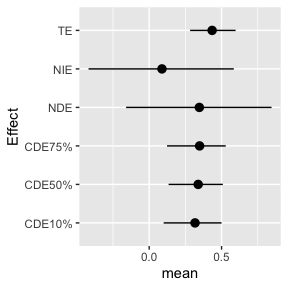
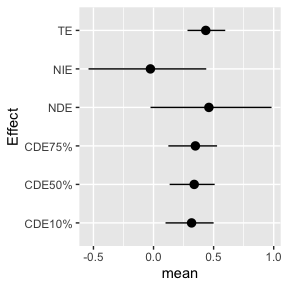
Deploying to gh-pages from @ zc2326/causalbkmr@eaff8c5043000f4481b8d0040f219d91425fe7d6 🚀

diff --git a/reference/YaYastar.SamplePred.html b/reference/YaYastar.SamplePred.html
@@ -1,5 +1,6 @@
 <!DOCTYPE html>
-<!-- Generated by pkgdown: do not edit by hand --><html lang="en"><head><meta http-equiv="Content-Type" content="text/html; charset=UTF-8"><meta charset="utf-8"><meta http-equiv="X-UA-Compatible" content="IE=edge"><meta name="viewport" content="width=device-width, initial-scale=1.0"><title>Estimate TE for BKMR — YaYastar.SamplePred • causalbkmr</title><!-- jquery --><script src="https://cdnjs.cloudflare.com/ajax/libs/jquery/3.4.1/jquery.min.js" integrity="sha256-CSXorXvZcTkaix6Yvo6HppcZGetbYMGWSFlBw8HfCJo=" crossorigin="anonymous"></script><!-- Bootstrap --><link href="https://cdnjs.cloudflare.com/ajax/libs/bootswatch/3.4.0/cosmo/bootstrap.min.css" rel="stylesheet" crossorigin="anonymous"><script src="https://cdnjs.cloudflare.com/ajax/libs/twitter-bootstrap/3.4.1/js/bootstrap.min.js" integrity="sha256-nuL8/2cJ5NDSSwnKD8VqreErSWHtnEP9E7AySL+1ev4=" crossorigin="anonymous"></script><!-- bootstrap-toc --><link rel="stylesheet" href="../bootstrap-toc.css"><script src="../bootstrap-toc.js"></script><!-- Font Awesome icons --><link rel="stylesheet" href="https://cdnjs.cloudflare.com/ajax/libs/font-awesome/5.12.1/css/all.min.css" integrity="sha256-mmgLkCYLUQbXn0B1SRqzHar6dCnv9oZFPEC1g1cwlkk=" crossorigin="anonymous"><link rel="stylesheet" href="https://cdnjs.cloudflare.com/ajax/libs/font-awesome/5.12.1/css/v4-shims.min.css" integrity="sha256-wZjR52fzng1pJHwx4aV2AO3yyTOXrcDW7jBpJtTwVxw=" crossorigin="anonymous"><!-- clipboard.js --><script src="https://cdnjs.cloudflare.com/ajax/libs/clipboard.js/2.0.6/clipboard.min.js" integrity="sha256-inc5kl9MA1hkeYUt+EC3BhlIgyp/2jDIyBLS6k3UxPI=" crossorigin="anonymous"></script><!-- headroom.js --><script src="https://cdnjs.cloudflare.com/ajax/libs/headroom/0.11.0/headroom.min.js" integrity="sha256-AsUX4SJE1+yuDu5+mAVzJbuYNPHj/WroHuZ8Ir/CkE0=" crossorigin="anonymous"></script><script src="https://cdnjs.cloudflare.com/ajax/libs/headroom/0.11.0/jQuery.headroom.min.js" integrity="sha256-ZX/yNShbjqsohH1k95liqY9Gd8uOiE1S4vZc+9KQ1K4=" crossorigin="anonymous"></script><!-- pkgdown --><link href="../pkgdown.css" rel="stylesheet"><script src="../pkgdown.js"></script><meta property="og:title" content="Estimate TE for BKMR — YaYastar.SamplePred"><meta property="og:description" content="Get Ya and Yastar used in effects caculation"><!-- mathjax --><script src="https://cdnjs.cloudflare.com/ajax/libs/mathjax/2.7.5/MathJax.js" integrity="sha256-nvJJv9wWKEm88qvoQl9ekL2J+k/RWIsaSScxxlsrv8k=" crossorigin="anonymous"></script><script src="https://cdnjs.cloudflare.com/ajax/libs/mathjax/2.7.5/config/TeX-AMS-MML_HTMLorMML.js" integrity="sha256-84DKXVJXs0/F8OTMzX4UR909+jtl4G7SPypPavF+GfA=" crossorigin="anonymous"></script><!--[if lt IE 9]>
+<!-- Generated by pkgdown: do not edit by hand --><html lang="en"><head><meta http-equiv="Content-Type" content="text/html; charset=UTF-8"><meta charset="utf-8"><meta http-equiv="X-UA-Compatible" content="IE=edge"><meta name="viewport" content="width=device-width, initial-scale=1.0"><title>Estimate TE for BKMR-CMA-MI — YaYastar.SamplePred • causalbkmr</title><!-- jquery --><script src="https://cdnjs.cloudflare.com/ajax/libs/jquery/3.4.1/jquery.min.js" integrity="sha256-CSXorXvZcTkaix6Yvo6HppcZGetbYMGWSFlBw8HfCJo=" crossorigin="anonymous"></script><!-- Bootstrap --><link href="https://cdnjs.cloudflare.com/ajax/libs/bootswatch/3.4.0/cosmo/bootstrap.min.css" rel="stylesheet" crossorigin="anonymous"><script src="https://cdnjs.cloudflare.com/ajax/libs/twitter-bootstrap/3.4.1/js/bootstrap.min.js" integrity="sha256-nuL8/2cJ5NDSSwnKD8VqreErSWHtnEP9E7AySL+1ev4=" crossorigin="anonymous"></script><!-- bootstrap-toc --><link rel="stylesheet" href="../bootstrap-toc.css"><script src="../bootstrap-toc.js"></script><!-- Font Awesome icons --><link rel="stylesheet" href="https://cdnjs.cloudflare.com/ajax/libs/font-awesome/5.12.1/css/all.min.css" integrity="sha256-mmgLkCYLUQbXn0B1SRqzHar6dCnv9oZFPEC1g1cwlkk=" crossorigin="anonymous"><link rel="stylesheet" href="https://cdnjs.cloudflare.com/ajax/libs/font-awesome/5.12.1/css/v4-shims.min.css" integrity="sha256-wZjR52fzng1pJHwx4aV2AO3yyTOXrcDW7jBpJtTwVxw=" crossorigin="anonymous"><!-- clipboard.js --><script src="https://cdnjs.cloudflare.com/ajax/libs/clipboard.js/2.0.6/clipboard.min.js" integrity="sha256-inc5kl9MA1hkeYUt+EC3BhlIgyp/2jDIyBLS6k3UxPI=" crossorigin="anonymous"></script><!-- headroom.js --><script src="https://cdnjs.cloudflare.com/ajax/libs/headroom/0.11.0/headroom.min.js" integrity="sha256-AsUX4SJE1+yuDu5+mAVzJbuYNPHj/WroHuZ8Ir/CkE0=" crossorigin="anonymous"></script><script src="https://cdnjs.cloudflare.com/ajax/libs/headroom/0.11.0/jQuery.headroom.min.js" integrity="sha256-ZX/yNShbjqsohH1k95liqY9Gd8uOiE1S4vZc+9KQ1K4=" crossorigin="anonymous"></script><!-- pkgdown --><link href="../pkgdown.css" rel="stylesheet"><script src="../pkgdown.js"></script><meta property="og:title" content="Estimate TE for BKMR-CMA-MI — YaYastar.SamplePred"><meta property="og:description" content="Get Ya and Yastar used in effects caculation
+Get Ya and Yastar used in effects caculation"><!-- mathjax --><script src="https://cdnjs.cloudflare.com/ajax/libs/mathjax/2.7.5/MathJax.js" integrity="sha256-nvJJv9wWKEm88qvoQl9ekL2J+k/RWIsaSScxxlsrv8k=" crossorigin="anonymous"></script><script src="https://cdnjs.cloudflare.com/ajax/libs/mathjax/2.7.5/config/TeX-AMS-MML_HTMLorMML.js" integrity="sha256-84DKXVJXs0/F8OTMzX4UR909+jtl4G7SPypPavF+GfA=" crossorigin="anonymous"></script><!--[if lt IE 9]>
 <script src="https://oss.maxcdn.com/html5shiv/3.7.3/html5shiv.min.js"></script>
 <script src="https://oss.maxcdn.com/respond/1.4.2/respond.min.js"></script>
 <![endif]--></head><body data-spy="scroll" data-target="#toc">
@@ -97,17 +98,20 @@
       </header><div class="row">
   <div class="col-md-9 contents">
     <div class="page-header">
-    <h1>Estimate TE for BKMR</h1>
-    <small class="dont-index">Source: <a href="https://github.com/zc2326/causalbkmr/blob/HEAD/R/TE.bkmr.R" class="external-link"><code>R/TE.bkmr.R</code></a></small>
+    <h1>Estimate TE for BKMR-CMA-MI</h1>
+    <small class="dont-index">Source: <a href="https://github.com/zc2326/causalbkmr/blob/HEAD/R/TE.bkmr.MI.R" class="external-link"><code>R/TE.bkmr.MI.R</code></a>, <a href="https://github.com/zc2326/causalbkmr/blob/HEAD/R/TE.bkmr.R" class="external-link"><code>R/TE.bkmr.R</code></a></small>
     <div class="hidden name"><code>YaYastar.SamplePred.Rd</code></div>
     </div>
 
     <div class="ref-description">
     <p>Get Ya and Yastar used in effects caculation</p>
+<p>Get Ya and Yastar used in effects caculation</p>
     </div>
 
     <div id="ref-usage">
-    <div class="sourceCode"><pre class="sourceCode r"><code><span><span class="fu">YaYastar.SamplePred</span><span class="op">(</span><span class="va">a</span>, <span class="va">astar</span>, <span class="va">e.y</span>, <span class="va">fit.y.TE</span>, <span class="va">X.predict.Y</span>, <span class="va">sel</span>, <span class="va">seed</span><span class="op">)</span></span></code></pre></div>
+    <div class="sourceCode"><pre class="sourceCode r"><code><span><span class="fu">YaYastar.SamplePred</span><span class="op">(</span><span class="va">a</span>, <span class="va">astar</span>, <span class="va">e.y</span>, <span class="va">fit.y.TE</span>, <span class="va">X.predict.Y</span>, <span class="va">sel</span>, <span class="va">seed</span><span class="op">)</span></span>
+<span></span>
+<span><span class="fu">YaYastar.SamplePred</span><span class="op">(</span><span class="va">a</span>, <span class="va">astar</span>, <span class="va">e.y</span>, <span class="va">fit.y.TE</span>, <span class="va">X.predict.Y</span>, <span class="va">sel</span>, <span class="va">seed</span><span class="op">)</span></span></code></pre></div>
     </div>
 
     <div id="arguments">
@@ -139,10 +143,17 @@
 <dt>seed</dt>
 <dd><p>the random seed to use to evaluate the code</p></dd>
 
+
+<dt>BKMRfits.y.TE</dt>
+<dd><p>A list of BKMR models for total effect model fit regressing outcome on exposures, effect modifiers and confounders on outcome, using multiple imputed data.</p></dd>
+
 </dl></div>
     <div id="value">
     <h2>Value</h2>
     
+
+<p>A list containing the sample prediction for Ya and Yastar</p>
+
 
 <p>A list containing the sample prediction for Ya and Yastar</p>
     </div>
@@ -150,11 +161,56 @@
     <h2>Details</h2>
     <p>For guided examples, go to
 https://zc2326.github.io/causalbkmr/articles/BKMRCMA_QuickStart.html</p>
+<p>For guided examples, go to
+https://zc2326.github.io/causalbkmr/articles/BKMRCMA_QuickStart.html</p>
     </div>
 
     <div id="ref-examples">
     <h2>Examples</h2>
     <div class="sourceCode"><pre class="sourceCode r"><code><span class="r-in"><span><span class="kw">if</span> <span class="op">(</span><span class="cn">FALSE</span><span class="op">)</span> <span class="op">{</span></span></span>
+<span class="r-in"><span><span class="kw"><a href="https://rdrr.io/r/base/library.html" class="external-link">library</a></span><span class="op">(</span><span class="va"><a href="https://github.com/zc2326/causalbkmr" class="external-link">causalbkmr</a></span><span class="op">)</span></span></span>
+<span class="r-in"><span><span class="va">dat</span> <span class="op">&lt;-</span>  <span class="fu"><a href="cma_sampledata.html">cma_sampledata</a></span><span class="op">(</span>N<span class="op">=</span><span class="fl">300</span>, L<span class="op">=</span><span class="fl">3</span>, P<span class="op">=</span><span class="fl">3</span>, scenario<span class="op">=</span><span class="fl">1</span>, seed<span class="op">=</span><span class="fl">7</span><span class="op">)</span></span></span>
+<span class="r-in"><span></span></span>
+<span class="r-in"><span><span class="va">A</span> <span class="op">&lt;-</span> <span class="fu"><a href="https://rdrr.io/r/base/cbind.html" class="external-link">cbind</a></span><span class="op">(</span><span class="va">dat</span><span class="op">$</span><span class="va">z1</span>, <span class="va">dat</span><span class="op">$</span><span class="va">z2</span>, <span class="va">dat</span><span class="op">$</span><span class="va">z3</span><span class="op">)</span></span></span>
+<span class="r-in"><span><span class="va">X</span> <span class="op">&lt;-</span> <span class="fu"><a href="https://rdrr.io/r/base/cbind.html" class="external-link">cbind</a></span><span class="op">(</span><span class="va">dat</span><span class="op">$</span><span class="va">x3</span><span class="op">)</span></span></span>
+<span class="r-in"><span><span class="va">y</span>  <span class="op">&lt;-</span> <span class="va">dat</span><span class="op">$</span><span class="va">y</span></span></span>
+<span class="r-in"><span><span class="va">m</span>  <span class="op">&lt;-</span> <span class="va">dat</span><span class="op">$</span><span class="va">M</span></span></span>
+<span class="r-in"><span></span></span>
+<span class="r-in"><span><span class="va">E.M</span> <span class="op">&lt;-</span> <span class="cn">NULL</span></span></span>
+<span class="r-in"><span><span class="va">E.Y</span> <span class="op">&lt;-</span> <span class="va">dat</span><span class="op">$</span><span class="va">x2</span></span></span>
+<span class="r-in"><span></span></span>
+<span class="r-in"><span><span class="va">Z.M</span> <span class="op">&lt;-</span> <span class="fu"><a href="https://rdrr.io/r/base/cbind.html" class="external-link">cbind</a></span><span class="op">(</span><span class="va">A</span>,<span class="va">E.M</span><span class="op">)</span></span></span>
+<span class="r-in"><span><span class="va">Z.Y</span> <span class="op">&lt;-</span> <span class="fu"><a href="https://rdrr.io/r/base/cbind.html" class="external-link">cbind</a></span><span class="op">(</span><span class="va">A</span>, <span class="va">E.Y</span><span class="op">)</span></span></span>
+<span class="r-in"><span><span class="va">Zm.Y</span> <span class="op">&lt;-</span> <span class="fu"><a href="https://rdrr.io/r/base/cbind.html" class="external-link">cbind</a></span><span class="op">(</span><span class="va">Z.Y</span>, <span class="va">m</span><span class="op">)</span></span></span>
+<span class="r-in"><span></span></span>
+<span class="r-in"><span><span class="fu"><a href="https://rdrr.io/r/base/Random.html" class="external-link">set.seed</a></span><span class="op">(</span><span class="fl">1</span><span class="op">)</span></span></span>
+<span class="r-in"><span><span class="va">fit.y</span> <span class="op">&lt;-</span> <span class="fu">kmbayes</span><span class="op">(</span>y<span class="op">=</span><span class="va">y</span>, Z<span class="op">=</span><span class="va">Zm.Y</span>, X<span class="op">=</span><span class="va">X</span>, iter<span class="op">=</span><span class="fl">5000</span>, verbose<span class="op">=</span><span class="cn">TRUE</span>, varsel<span class="op">=</span><span class="cn">FALSE</span><span class="op">)</span></span></span>
+<span class="r-in"><span><span class="co">#save(fit.y,file="bkmr_y.RData")</span></span></span>
+<span class="r-in"><span></span></span>
+<span class="r-in"><span><span class="fu"><a href="https://rdrr.io/r/base/Random.html" class="external-link">set.seed</a></span><span class="op">(</span><span class="fl">2</span><span class="op">)</span></span></span>
+<span class="r-in"><span><span class="va">fit.y.TE</span> <span class="op">&lt;-</span> <span class="fu">kmbayes</span><span class="op">(</span>y<span class="op">=</span><span class="va">y</span>, Z<span class="op">=</span><span class="va">Z.Y</span>, X<span class="op">=</span><span class="va">X</span>, iter<span class="op">=</span><span class="fl">5000</span>, verbose<span class="op">=</span><span class="cn">TRUE</span>, varsel<span class="op">=</span><span class="cn">FALSE</span><span class="op">)</span></span></span>
+<span class="r-in"><span><span class="co">#save(fit.y.TE,file="bkmr_y_TE.RData")</span></span></span>
+<span class="r-in"><span></span></span>
+<span class="r-in"><span><span class="fu"><a href="https://rdrr.io/r/base/Random.html" class="external-link">set.seed</a></span><span class="op">(</span><span class="fl">3</span><span class="op">)</span></span></span>
+<span class="r-in"><span><span class="va">fit.m</span> <span class="op">&lt;-</span> <span class="fu">kmbayes</span><span class="op">(</span>y<span class="op">=</span><span class="va">m</span>, Z<span class="op">=</span><span class="va">Z.M</span>, X<span class="op">=</span><span class="va">X</span>, iter<span class="op">=</span><span class="fl">5000</span>, verbose<span class="op">=</span><span class="cn">TRUE</span>, varsel<span class="op">=</span><span class="cn">FALSE</span><span class="op">)</span></span></span>
+<span class="r-in"><span><span class="co">#save(fit.m,file="bkmr_m.RData")</span></span></span>
+<span class="r-in"><span></span></span>
+<span class="r-in"><span><span class="va">X.predict</span> <span class="op">&lt;-</span> <span class="fu"><a href="https://rdrr.io/r/base/matrix.html" class="external-link">matrix</a></span><span class="op">(</span><span class="fu"><a href="https://rdrr.io/r/base/colSums.html" class="external-link">colMeans</a></span><span class="op">(</span><span class="va">X</span><span class="op">)</span>,nrow<span class="op">=</span><span class="fl">1</span><span class="op">)</span></span></span>
+<span class="r-in"><span><span class="va">astar</span> <span class="op">&lt;-</span> <span class="fu"><a href="https://rdrr.io/r/base/c.html" class="external-link">c</a></span><span class="op">(</span><span class="fu"><a href="https://rdrr.io/r/base/apply.html" class="external-link">apply</a></span><span class="op">(</span><span class="va">A</span>, <span class="fl">2</span>, <span class="va">quantile</span>, probs<span class="op">=</span><span class="fl">0.25</span><span class="op">)</span><span class="op">)</span></span></span>
+<span class="r-in"><span><span class="va">a</span> <span class="op">&lt;-</span> <span class="fu"><a href="https://rdrr.io/r/base/c.html" class="external-link">c</a></span><span class="op">(</span><span class="fu"><a href="https://rdrr.io/r/base/apply.html" class="external-link">apply</a></span><span class="op">(</span><span class="va">A</span>, <span class="fl">2</span>, <span class="va">quantile</span>, probs<span class="op">=</span><span class="fl">0.75</span><span class="op">)</span><span class="op">)</span></span></span>
+<span class="r-in"><span></span></span>
+<span class="r-in"><span><span class="va">e.y10</span> <span class="op">=</span> <span class="fu"><a href="https://rdrr.io/r/stats/quantile.html" class="external-link">quantile</a></span><span class="op">(</span><span class="va">E.Y</span>, probs<span class="op">=</span><span class="fl">0.1</span><span class="op">)</span></span></span>
+<span class="r-in"><span><span class="va">e.y90</span> <span class="op">=</span> <span class="fu"><a href="https://rdrr.io/r/stats/quantile.html" class="external-link">quantile</a></span><span class="op">(</span><span class="va">E.Y</span>, probs<span class="op">=</span><span class="fl">0.9</span><span class="op">)</span></span></span>
+<span class="r-in"><span></span></span>
+<span class="r-in"><span><span class="va">sel</span><span class="op">&lt;-</span><span class="fu"><a href="https://rdrr.io/r/base/seq.html" class="external-link">seq</a></span><span class="op">(</span><span class="fl">2500</span>,<span class="fl">5000</span>,by<span class="op">=</span><span class="fl">5</span><span class="op">)</span></span></span>
+<span class="r-in"><span></span></span>
+<span class="r-in"><span><span class="va">TE.ey10</span> <span class="op">&lt;-</span> <span class="fu"><a href="TE.bkmr.html">TE.bkmr</a></span><span class="op">(</span>a<span class="op">=</span><span class="va">a</span>, astar<span class="op">=</span><span class="va">astar</span>, e.y <span class="op">=</span> <span class="va">e.y10</span>, fit.y.TE<span class="op">=</span><span class="va">fit.y.TE</span>, X.predict<span class="op">=</span><span class="va">X.predict</span>, alpha<span class="op">=</span><span class="fl">0.05</span>, sel<span class="op">=</span><span class="va">sel</span>, seed<span class="op">=</span><span class="fl">122</span><span class="op">)</span></span></span>
+<span class="r-in"><span><span class="va">TE.ey90</span> <span class="op">&lt;-</span> <span class="fu"><a href="TE.bkmr.html">TE.bkmr</a></span><span class="op">(</span>a<span class="op">=</span><span class="va">a</span>, astar<span class="op">=</span><span class="va">astar</span>, e.y <span class="op">=</span> <span class="va">e.y90</span>, fit.y.TE<span class="op">=</span><span class="va">fit.y.TE</span>, X.predict<span class="op">=</span><span class="va">X.predict</span>, alpha<span class="op">=</span><span class="fl">0.05</span>, sel<span class="op">=</span><span class="va">sel</span>, seed<span class="op">=</span><span class="fl">122</span><span class="op">)</span></span></span>
+<span class="r-in"><span><span class="va">TE.ey10</span><span class="op">$</span><span class="va">est</span></span></span>
+<span class="r-in"><span><span class="va">TE.ey90</span><span class="op">$</span><span class="va">est</span></span></span>
+<span class="r-in"><span><span class="op">}</span></span></span>
+<span class="r-in"><span></span></span>
+<span class="r-in"><span><span class="kw">if</span> <span class="op">(</span><span class="cn">FALSE</span><span class="op">)</span> <span class="op">{</span></span></span>
 <span class="r-in"><span><span class="kw"><a href="https://rdrr.io/r/base/library.html" class="external-link">library</a></span><span class="op">(</span><span class="va"><a href="https://github.com/zc2326/causalbkmr" class="external-link">causalbkmr</a></span><span class="op">)</span></span></span>
 <span class="r-in"><span><span class="va">dat</span> <span class="op">&lt;-</span>  <span class="fu"><a href="cma_sampledata.html">cma_sampledata</a></span><span class="op">(</span>N<span class="op">=</span><span class="fl">300</span>, L<span class="op">=</span><span class="fl">3</span>, P<span class="op">=</span><span class="fl">3</span>, scenario<span class="op">=</span><span class="fl">1</span>, seed<span class="op">=</span><span class="fl">7</span><span class="op">)</span></span></span>
 <span class="r-in"><span></span></span>

diff --git a/reference/OverallRiskSummaries.MI.html b/reference/OverallRiskSummaries.MI.html
@@ -167,23 +167,23 @@
 <span class="r-in"><span></span></span>
 <span class="r-in"><span><span class="va">overallrisks.MI</span> <span class="op">&lt;-</span> <span class="fu">OverallRiskSummaries.MI</span><span class="op">(</span>BKMRfits <span class="op">=</span> <span class="va">BKMRfits10</span>, qs <span class="op">=</span> <span class="fu"><a href="https://rdrr.io/r/base/seq.html" class="external-link">seq</a></span><span class="op">(</span><span class="fl">0.1</span>, <span class="fl">0.9</span>, by <span class="op">=</span> <span class="fl">0.05</span><span class="op">)</span>,  q.fixed <span class="op">=</span> <span class="fl">0.5</span>, sel <span class="op">=</span> <span class="va">sel.MI</span>, method <span class="op">=</span> <span class="st">"approx"</span><span class="op">)</span></span></span>
 <span class="r-out co"><span class="r-pr">#&gt;</span> [1] "approx method"</span>
-<span class="r-out co"><span class="r-pr">#&gt;</span> [1] "1 out of 17 complete:  0.05 min run time"</span>
-<span class="r-out co"><span class="r-pr">#&gt;</span> [1] "2 out of 17 complete:  0.06 min run time"</span>
-<span class="r-out co"><span class="r-pr">#&gt;</span> [1] "3 out of 17 complete:  0.06 min run time"</span>
-<span class="r-out co"><span class="r-pr">#&gt;</span> [1] "4 out of 17 complete:  0.07 min run time"</span>
-<span class="r-out co"><span class="r-pr">#&gt;</span> [1] "5 out of 17 complete:  0.07 min run time"</span>
-<span class="r-out co"><span class="r-pr">#&gt;</span> [1] "6 out of 17 complete:  0.08 min run time"</span>
-<span class="r-out co"><span class="r-pr">#&gt;</span> [1] "7 out of 17 complete:  0.08 min run time"</span>
-<span class="r-out co"><span class="r-pr">#&gt;</span> [1] "8 out of 17 complete:  0.09 min run time"</span>
-<span class="r-out co"><span class="r-pr">#&gt;</span> [1] "9 out of 17 complete:  0.09 min run time"</span>
-<span class="r-out co"><span class="r-pr">#&gt;</span> [1] "10 out of 17 complete:  0.09 min run time"</span>
-<span class="r-out co"><span class="r-pr">#&gt;</span> [1] "11 out of 17 complete:  0.1 min run time"</span>
-<span class="r-out co"><span class="r-pr">#&gt;</span> [1] "12 out of 17 complete:  0.1 min run time"</span>
-<span class="r-out co"><span class="r-pr">#&gt;</span> [1] "13 out of 17 complete:  0.11 min run time"</span>
-<span class="r-out co"><span class="r-pr">#&gt;</span> [1] "14 out of 17 complete:  0.11 min run time"</span>
-<span class="r-out co"><span class="r-pr">#&gt;</span> [1] "15 out of 17 complete:  0.11 min run time"</span>
-<span class="r-out co"><span class="r-pr">#&gt;</span> [1] "16 out of 17 complete:  0.12 min run time"</span>
-<span class="r-out co"><span class="r-pr">#&gt;</span> [1] "17 out of 17 complete:  0.12 min run time"</span>
+<span class="r-out co"><span class="r-pr">#&gt;</span> [1] "1 out of 17 complete:  0.04 min run time"</span>
+<span class="r-out co"><span class="r-pr">#&gt;</span> [1] "2 out of 17 complete:  0.04 min run time"</span>
+<span class="r-out co"><span class="r-pr">#&gt;</span> [1] "3 out of 17 complete:  0.05 min run time"</span>
+<span class="r-out co"><span class="r-pr">#&gt;</span> [1] "4 out of 17 complete:  0.05 min run time"</span>
+<span class="r-out co"><span class="r-pr">#&gt;</span> [1] "5 out of 17 complete:  0.06 min run time"</span>
+<span class="r-out co"><span class="r-pr">#&gt;</span> [1] "6 out of 17 complete:  0.06 min run time"</span>
+<span class="r-out co"><span class="r-pr">#&gt;</span> [1] "7 out of 17 complete:  0.06 min run time"</span>
+<span class="r-out co"><span class="r-pr">#&gt;</span> [1] "8 out of 17 complete:  0.07 min run time"</span>
+<span class="r-out co"><span class="r-pr">#&gt;</span> [1] "9 out of 17 complete:  0.07 min run time"</span>
+<span class="r-out co"><span class="r-pr">#&gt;</span> [1] "10 out of 17 complete:  0.07 min run time"</span>
+<span class="r-out co"><span class="r-pr">#&gt;</span> [1] "11 out of 17 complete:  0.08 min run time"</span>
+<span class="r-out co"><span class="r-pr">#&gt;</span> [1] "12 out of 17 complete:  0.08 min run time"</span>
+<span class="r-out co"><span class="r-pr">#&gt;</span> [1] "13 out of 17 complete:  0.08 min run time"</span>
+<span class="r-out co"><span class="r-pr">#&gt;</span> [1] "14 out of 17 complete:  0.09 min run time"</span>
+<span class="r-out co"><span class="r-pr">#&gt;</span> [1] "15 out of 17 complete:  0.09 min run time"</span>
+<span class="r-out co"><span class="r-pr">#&gt;</span> [1] "16 out of 17 complete:  0.09 min run time"</span>
+<span class="r-out co"><span class="r-pr">#&gt;</span> [1] "17 out of 17 complete:  0.1 min run time"</span>
 <span class="r-in"><span><span class="fu">ggplot</span><span class="op">(</span><span class="va">overallrisks.MI</span>, <span class="fu">aes</span><span class="op">(</span><span class="va">quantile</span>, <span class="va">est</span>, ymin <span class="op">=</span> <span class="va">est</span> <span class="op">-</span> <span class="fl">1.96</span> <span class="op">*</span> <span class="va">sd</span>, ymax <span class="op">=</span> <span class="va">est</span> <span class="op">+</span> <span class="fl">1.96</span> <span class="op">*</span> <span class="va">sd</span><span class="op">)</span><span class="op">)</span> <span class="op">+</span></span></span>
 <span class="r-in"><span><span class="fu">geom_hline</span><span class="op">(</span>yintercept <span class="op">=</span> <span class="fl">00</span>, linetype <span class="op">=</span> <span class="st">"dashed"</span>, color <span class="op">=</span> <span class="st">"gray"</span><span class="op">)</span> <span class="op">+</span></span></span>
 <span class="r-in"><span>  <span class="fu">geom_pointrange</span><span class="op">(</span><span class="op">)</span><span class="op">+</span> <span class="fu">ggtitle</span><span class="op">(</span><span class="st">""</span><span class="op">)</span> <span class="op">+</span> <span class="fu">scale_y_continuous</span><span class="op">(</span>name<span class="op">=</span><span class="st">"estimate"</span><span class="op">)</span></span></span>

diff --git a/articles/MI_BKMR.html b/articles/MI_BKMR.html
@@ -186,9 +186,9 @@ fits:</p>
 <div class="sourceCode" id="cb7"><pre class="downlit sourceCode r">
 <code class="sourceCode R"><span><span class="va">singvarrisk.MI</span> <span class="op">&lt;-</span> <span class="fu"><a href="../reference/SingVarRiskSummaries.MI.html">SingVarRiskSummaries.MI</a></span><span class="op">(</span>BKMRfits<span class="op">=</span><span class="va">BKMRfits10</span>, qs.diff <span class="op">=</span> <span class="fu"><a href="https://rdrr.io/r/base/c.html" class="external-link">c</a></span><span class="op">(</span><span class="fl">0.25</span>, <span class="fl">0.75</span><span class="op">)</span>,</span>
 <span>                         q.fixed <span class="op">=</span> <span class="fu"><a href="https://rdrr.io/r/base/c.html" class="external-link">c</a></span><span class="op">(</span><span class="fl">0.25</span>, <span class="fl">0.50</span>, <span class="fl">0.75</span><span class="op">)</span>, sel<span class="op">=</span><span class="va">sel.MI</span>, method <span class="op">=</span> <span class="st">"approx"</span><span class="op">)</span></span>
-<span><span class="co">#&gt; [1] "1 out of 3 complete:  0.02 min run time"</span></span>
+<span><span class="co">#&gt; [1] "1 out of 3 complete:  0.01 min run time"</span></span>
 <span><span class="co">#&gt; [1] "2 out of 3 complete:  0.03 min run time"</span></span>
-<span><span class="co">#&gt; [1] "3 out of 3 complete:  0.05 min run time"</span></span></code></pre></div>
+<span><span class="co">#&gt; [1] "3 out of 3 complete:  0.04 min run time"</span></span></code></pre></div>
 <p>Rerun the <code>SingVarRiskSummaries.MI</code> function but now
 <em>fixing</em> the quantile for <code>z2</code> to 0.25 (for all
 comparisons)</p>
@@ -204,8 +204,8 @@ funny).</p>
 <span>                               q.alwaysfixed <span class="op">=</span> <span class="fl">0.25</span>, index.alwaysfixed <span class="op">=</span> <span class="fl">2</span>, </span>
 <span>                               sel<span class="op">=</span><span class="va">sel.MI</span>, method <span class="op">=</span> <span class="st">"approx"</span><span class="op">)</span></span>
 <span><span class="co">#&gt; [1] "1 out of 3 complete:  0.01 min run time"</span></span>
-<span><span class="co">#&gt; [1] "2 out of 3 complete:  0.03 min run time"</span></span>
-<span><span class="co">#&gt; [1] "3 out of 3 complete:  0.04 min run time"</span></span>
+<span><span class="co">#&gt; [1] "2 out of 3 complete:  0.02 min run time"</span></span>
+<span><span class="co">#&gt; [1] "3 out of 3 complete:  0.03 min run time"</span></span>
 <span> </span>
 <span><span class="co">## plot the single variable dataframe for the MI fits</span></span>
 <span><span class="fu"><a href="https://ggplot2.tidyverse.org/reference/ggplot.html" class="external-link">ggplot</a></span><span class="op">(</span><span class="va">singvarrisk.MI</span>, <span class="fu"><a href="https://ggplot2.tidyverse.org/reference/aes.html" class="external-link">aes</a></span><span class="op">(</span><span class="va">variable</span>, <span class="va">est</span>, ymin <span class="op">=</span> <span class="va">est</span> <span class="op">-</span> <span class="fl">1.96</span><span class="op">*</span><span class="va">sd</span>,  </span>
@@ -238,7 +238,7 @@ dataframes.</p>
 <div class="sourceCode" id="cb10"><pre class="downlit sourceCode r">
 <code class="sourceCode R"><span><span class="va">univar.MI</span> <span class="op">&lt;-</span> <span class="fu"><a href="../reference/PredictorResponseUnivar.MI.html">PredictorResponseUnivar.MI</a></span><span class="op">(</span><span class="va">BKMRfits10</span>, ngrid <span class="op">=</span> <span class="fl">50</span>, q.fixed <span class="op">=</span> <span class="fl">0.5</span>, </span>
 <span>                                        sel <span class="op">=</span> <span class="va">sel.MI</span>, method<span class="op">=</span><span class="st">"approx"</span><span class="op">)</span> </span>
-<span><span class="co">#&gt; [1] "1 out of 4 complete:  0.01 min run time"</span></span>
+<span><span class="co">#&gt; [1] "1 out of 4 complete:  0 min run time"</span></span>
 <span><span class="co">#&gt; [1] "2 out of 4 complete:  0.01 min run time"</span></span>
 <span><span class="co">#&gt; [1] "3 out of 4 complete:  0.01 min run time"</span></span>
 <span><span class="co">#&gt; [1] "4 out of 4 complete:  0.02 min run time"</span></span></code></pre></div>

diff --git a/articles/bkmrcma_example_scenario2.html b/articles/bkmrcma_example_scenario2.html
@@ -302,16 +302,16 @@ NIE</p>
 <code class="sourceCode R"><span><span class="va">mediationeffects.ey10</span><span class="op">$</span><span class="va">est</span></span>
 <span><span class="co">#&gt;              mean      median       lower     upper        sd</span></span>
 <span><span class="co">#&gt; TE     0.30916635 0.314290915 -0.02660571 0.5727188 0.1549434</span></span>
-<span><span class="co">#&gt; NDE    0.29818254 0.301233360 -0.33291485 0.9103089 0.3238701</span></span>
-<span><span class="co">#&gt; NIE    0.01098381 0.004102463 -0.59739418 0.6713659 0.3191244</span></span>
+<span><span class="co">#&gt; NDE    0.29834270 0.301233360 -0.33291485 0.9103089 0.3239850</span></span>
+<span><span class="co">#&gt; NIE    0.01082364 0.004102463 -0.59770537 0.6713659 0.3193340</span></span>
 <span><span class="co">#&gt; CDE10% 0.28813715 0.295343850 -0.10165967 0.6682970 0.1904052</span></span>
 <span><span class="co">#&gt; CDE50% 0.34321913 0.342000447 -0.04373672 0.7398543 0.1917391</span></span>
 <span><span class="co">#&gt; CDE75% 0.34321913 0.342000447 -0.04373672 0.7398543 0.1917391</span></span>
 <span><span class="va">mediationeffects.ey90</span><span class="op">$</span><span class="va">est</span></span>
 <span><span class="co">#&gt;                mean      median       lower     upper        sd</span></span>
 <span><span class="co">#&gt; TE      0.415301283  0.40574600  0.11468494 0.7543082 0.1656023</span></span>
-<span><span class="co">#&gt; NDE     0.422672544  0.40739621 -0.27526006 1.1759479 0.3486962</span></span>
-<span><span class="co">#&gt; NIE    -0.007371261 -0.01404017 -0.74070549 0.7414162 0.3648544</span></span>
+<span><span class="co">#&gt; NDE     0.422781310  0.40948509 -0.27526006 1.1759479 0.3487023</span></span>
+<span><span class="co">#&gt; NIE    -0.007480027 -0.01404017 -0.74070549 0.7414162 0.3649172</span></span>
 <span><span class="co">#&gt; CDE10%  0.386433102  0.39061531 -0.03306667 0.8217995 0.2082319</span></span>
 <span><span class="co">#&gt; CDE50%  0.437912375  0.43447120  0.05164739 0.8499772 0.2022834</span></span>
 <span><span class="co">#&gt; CDE75%  0.437912375  0.43447120  0.05164739 0.8499772 0.2022834</span></span></code></pre></div>

diff --git a/articles/bkmrcma_example_scenario3.html b/articles/bkmrcma_example_scenario3.html
@@ -306,16 +306,16 @@ NIE</p>
 <code class="sourceCode R"><span><span class="va">mediationeffects.ey10</span><span class="op">$</span><span class="va">est</span></span>
 <span><span class="co">#&gt;               mean      median      lower     upper        sd</span></span>
 <span><span class="co">#&gt; TE      0.94593757  0.94804084  0.7198756 1.1688652 0.1131085</span></span>
-<span><span class="co">#&gt; NDE     0.97687919  0.96133770  0.4041084 1.5122865 0.2876060</span></span>
-<span><span class="co">#&gt; NIE    -0.03094162 -0.03898101 -0.5850728 0.5677202 0.2881401</span></span>
+<span><span class="co">#&gt; NDE     0.97650700  0.96133770  0.4041084 1.5122865 0.2878012</span></span>
+<span><span class="co">#&gt; NIE    -0.03056943 -0.03241357 -0.5850728 0.5677202 0.2879940</span></span>
 <span><span class="co">#&gt; CDE10%  0.84526794  0.85391990  0.5286018 1.0973116 0.1433318</span></span>
 <span><span class="co">#&gt; CDE50%  0.86766860  0.87805519  0.5693485 1.1282255 0.1374816</span></span>
 <span><span class="co">#&gt; CDE75%  0.86766860  0.87805519  0.5693485 1.1282255 0.1374816</span></span>
 <span><span class="va">mediationeffects.ey90</span><span class="op">$</span><span class="va">est</span></span>
 <span><span class="co">#&gt;              mean     median      lower     upper        sd</span></span>
 <span><span class="co">#&gt; TE     0.94638543 0.94983721  0.7192391 1.1691483 0.1166110</span></span>
-<span><span class="co">#&gt; NDE    0.93585319 0.92888322  0.2986041 1.5583039 0.3126441</span></span>
-<span><span class="co">#&gt; NIE    0.01053224 0.01401281 -0.5507629 0.6581325 0.3195609</span></span>
+<span><span class="co">#&gt; NDE    0.93592364 0.92888322  0.2986041 1.5583039 0.3127008</span></span>
+<span><span class="co">#&gt; NIE    0.01046179 0.01401281 -0.5507629 0.6581325 0.3196764</span></span>
 <span><span class="co">#&gt; CDE10% 0.83077989 0.83275278  0.5200515 1.1285557 0.1525085</span></span>
 <span><span class="co">#&gt; CDE50% 0.85236830 0.85845312  0.5757799 1.1208304 0.1426577</span></span>
 <span><span class="co">#&gt; CDE75% 0.85236830 0.85845312  0.5757799 1.1208304 0.1426577</span></span></code></pre></div>

diff --git a/reference/mediation.bkmr.html b/reference/mediation.bkmr.html
@@ -110,6 +110,7 @@
     <div class="sourceCode"><pre class="sourceCode r"><code><span><span class="fu">mediation.bkmr</span><span class="op">(</span></span>
 <span>  <span class="va">a</span>,</span>
 <span>  <span class="va">astar</span>,</span>
+<span>  e.m <span class="op">=</span> <span class="cn">NULL</span>,</span>
 <span>  <span class="va">e.y</span>,</span>
 <span>  fit.m <span class="op">=</span> <span class="cn">NULL</span>,</span>
 <span>  fit.y <span class="op">=</span> <span class="cn">NULL</span>,</span>
@@ -134,6 +135,10 @@
 
 <dt>astar</dt>
 <dd><p>exposure variables at counterfactual level</p></dd>
+
+
+<dt>e.m</dt>
+<dd><p>effect modifier for the mediator variable</p></dd>
 
 
 <dt>e.y</dt>

diff --git a/reference/index.html b/reference/index.html
@@ -188,9 +188,9 @@ Compute summaries of the risks associated with a change in a single variable in 
         </td>
         <td><p>YaMastar counterfactual</p></td>
       </tr><tr><td>
-          <p><code><a href="YaYastar.SamplePred.html">YaYastar.SamplePred()</a></code> </p>
+          <p><code><a href="YaYastar.SamplePred.html">YaYastar.SamplePred()</a></code> <code><a href="YaYastar.SamplePred.html">YaYastar.SamplePred()</a></code> </p>
         </td>
-        <td><p>Estimate TE for BKMR</p></td>
+        <td><p>Estimate TE for BKMR-CMA-MI</p></td>
       </tr><tr><td>
           <p><code><a href="Z.complete.MI.html">Z.complete.MI()</a></code> </p>
         </td>

diff --git a/reference/YaMastar.SamplePred.html b/reference/YaMastar.SamplePred.html
@@ -110,6 +110,7 @@
     <div class="sourceCode"><pre class="sourceCode r"><code><span><span class="fu">YaMastar.SamplePred</span><span class="op">(</span></span>
 <span>  <span class="va">a</span>,</span>
 <span>  <span class="va">astar</span>,</span>
+<span>  e.m <span class="op">=</span> <span class="cn">NULL</span>,</span>
 <span>  <span class="va">e.y</span>,</span>
 <span>  <span class="va">fit.m</span>,</span>
 <span>  <span class="va">fit.y</span>,</span>
@@ -129,6 +130,10 @@
 
 <dt>astar</dt>
 <dd><p>exposure variables at counterfactual level</p></dd>
+
+
+<dt>e.m</dt>
+<dd><p>effect modifier for the mediator variable</p></dd>
 
 
 <dt>e.y</dt>
